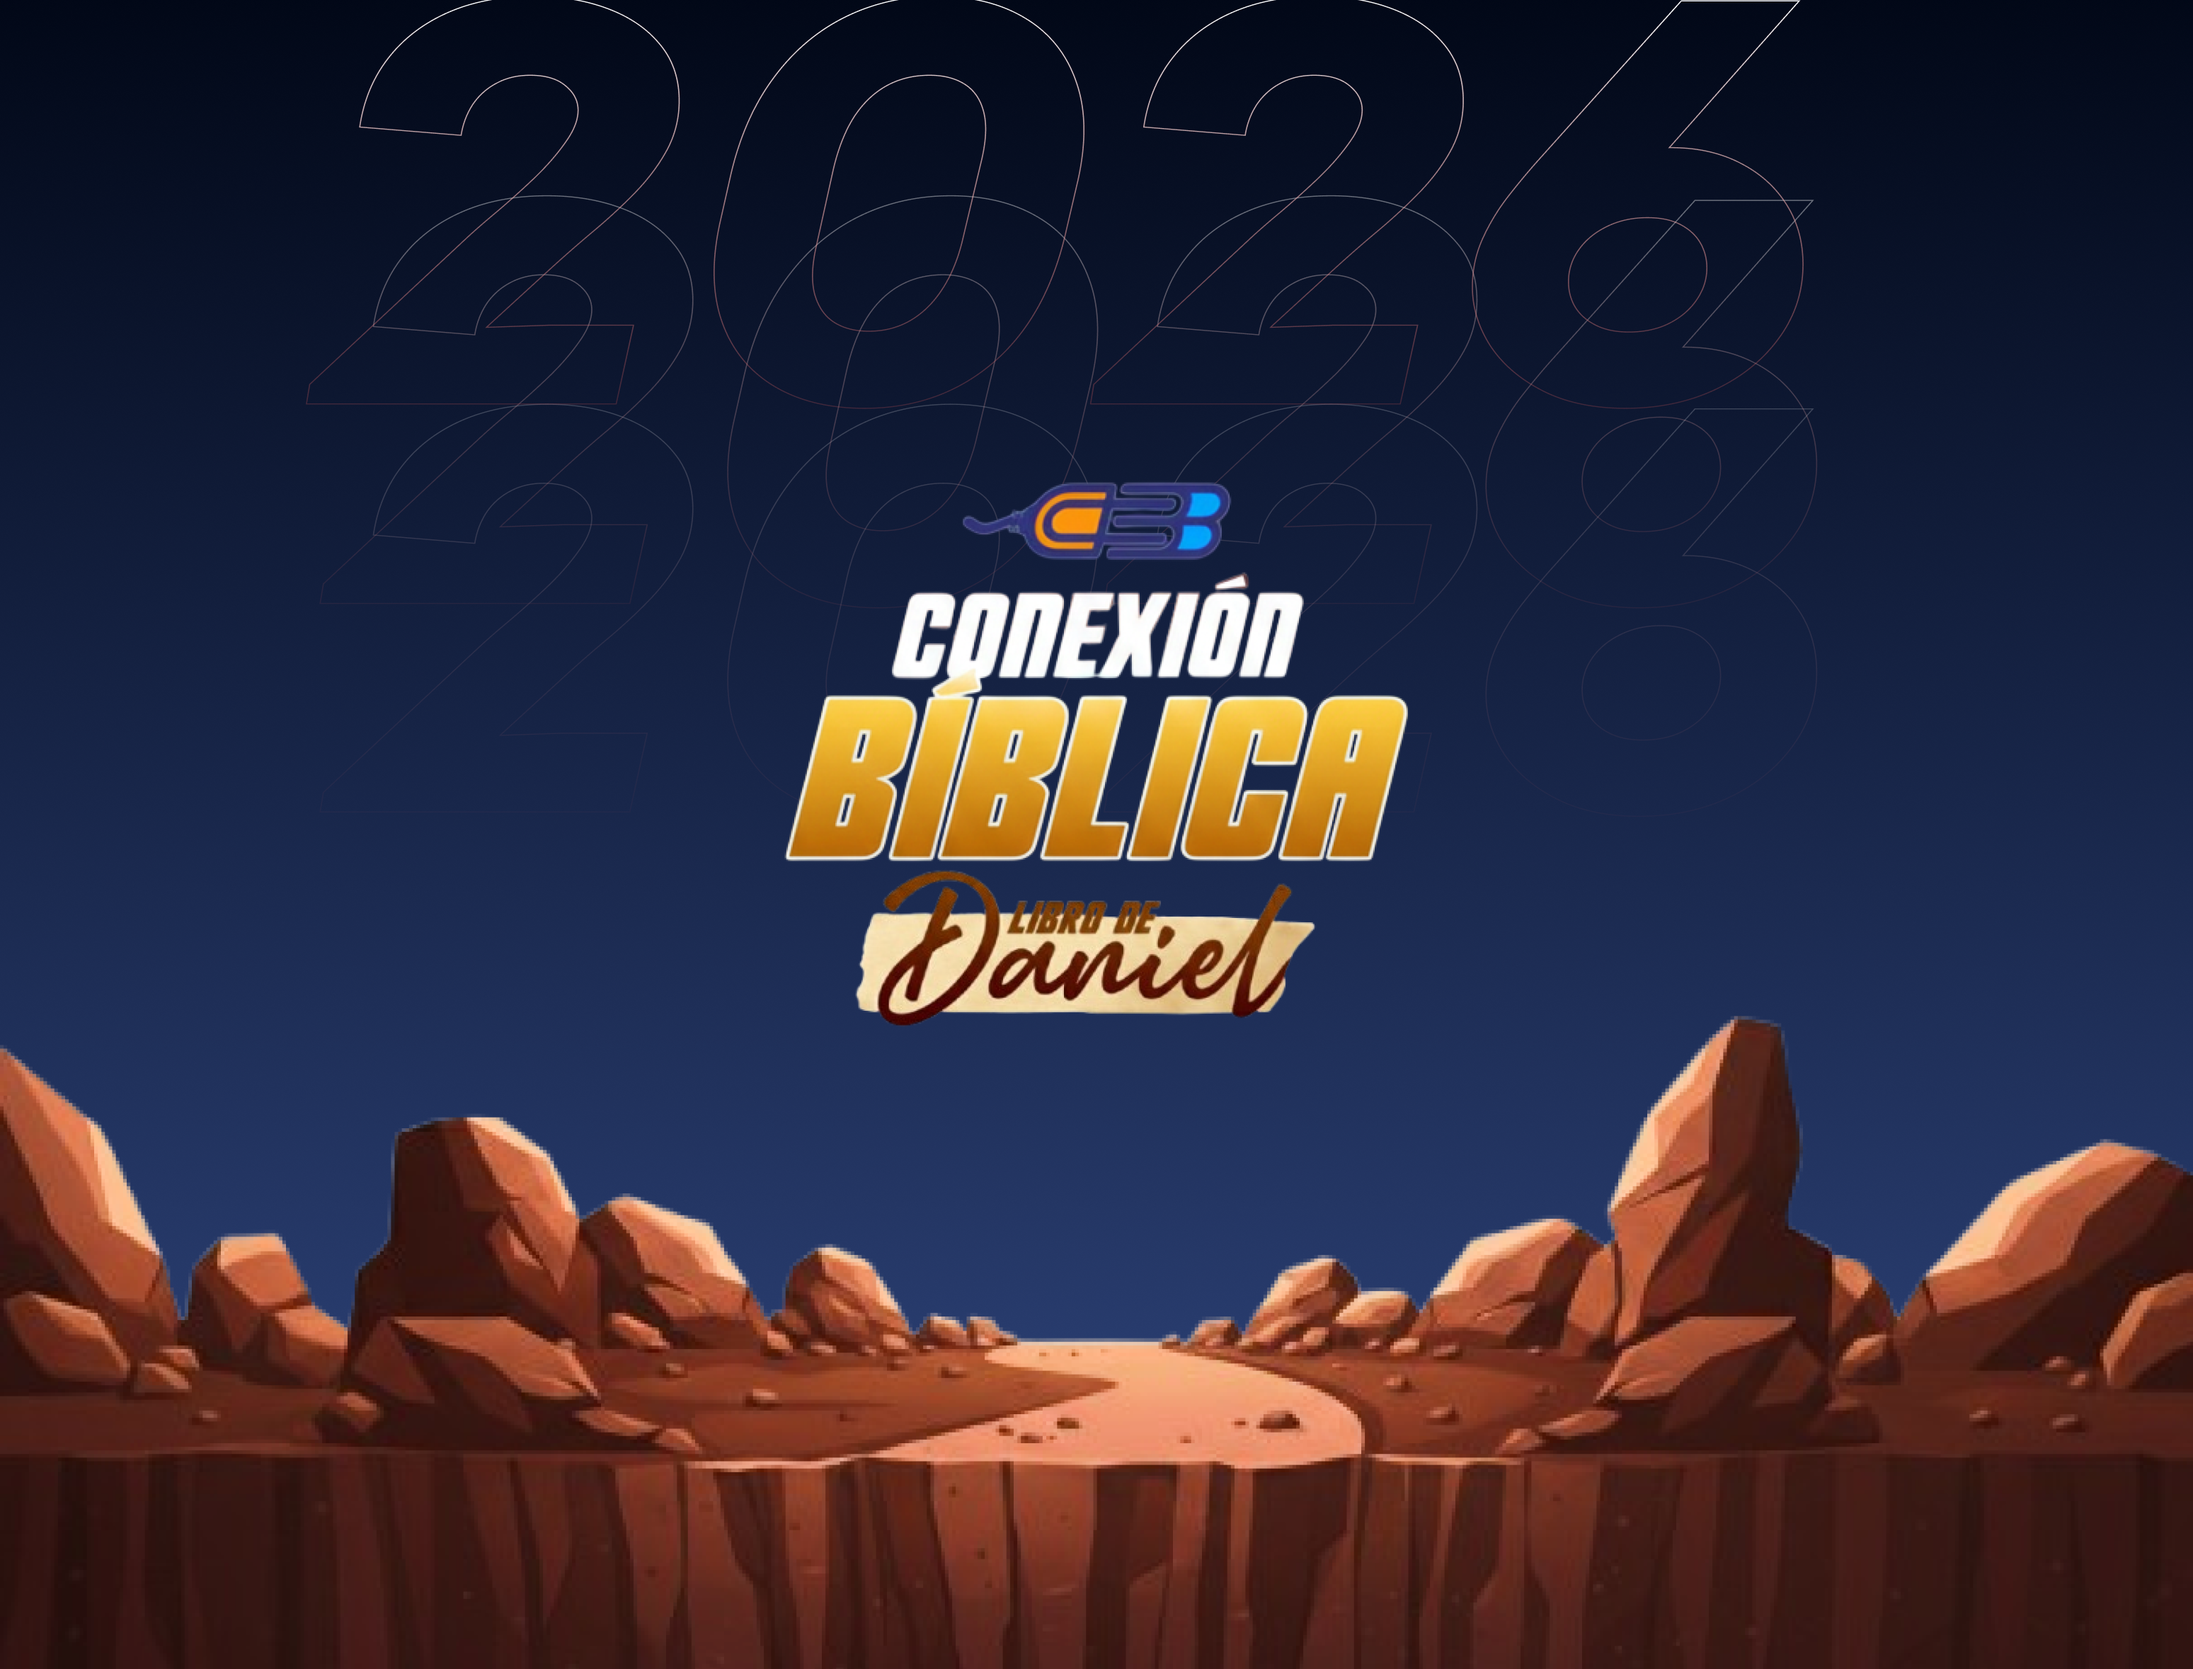
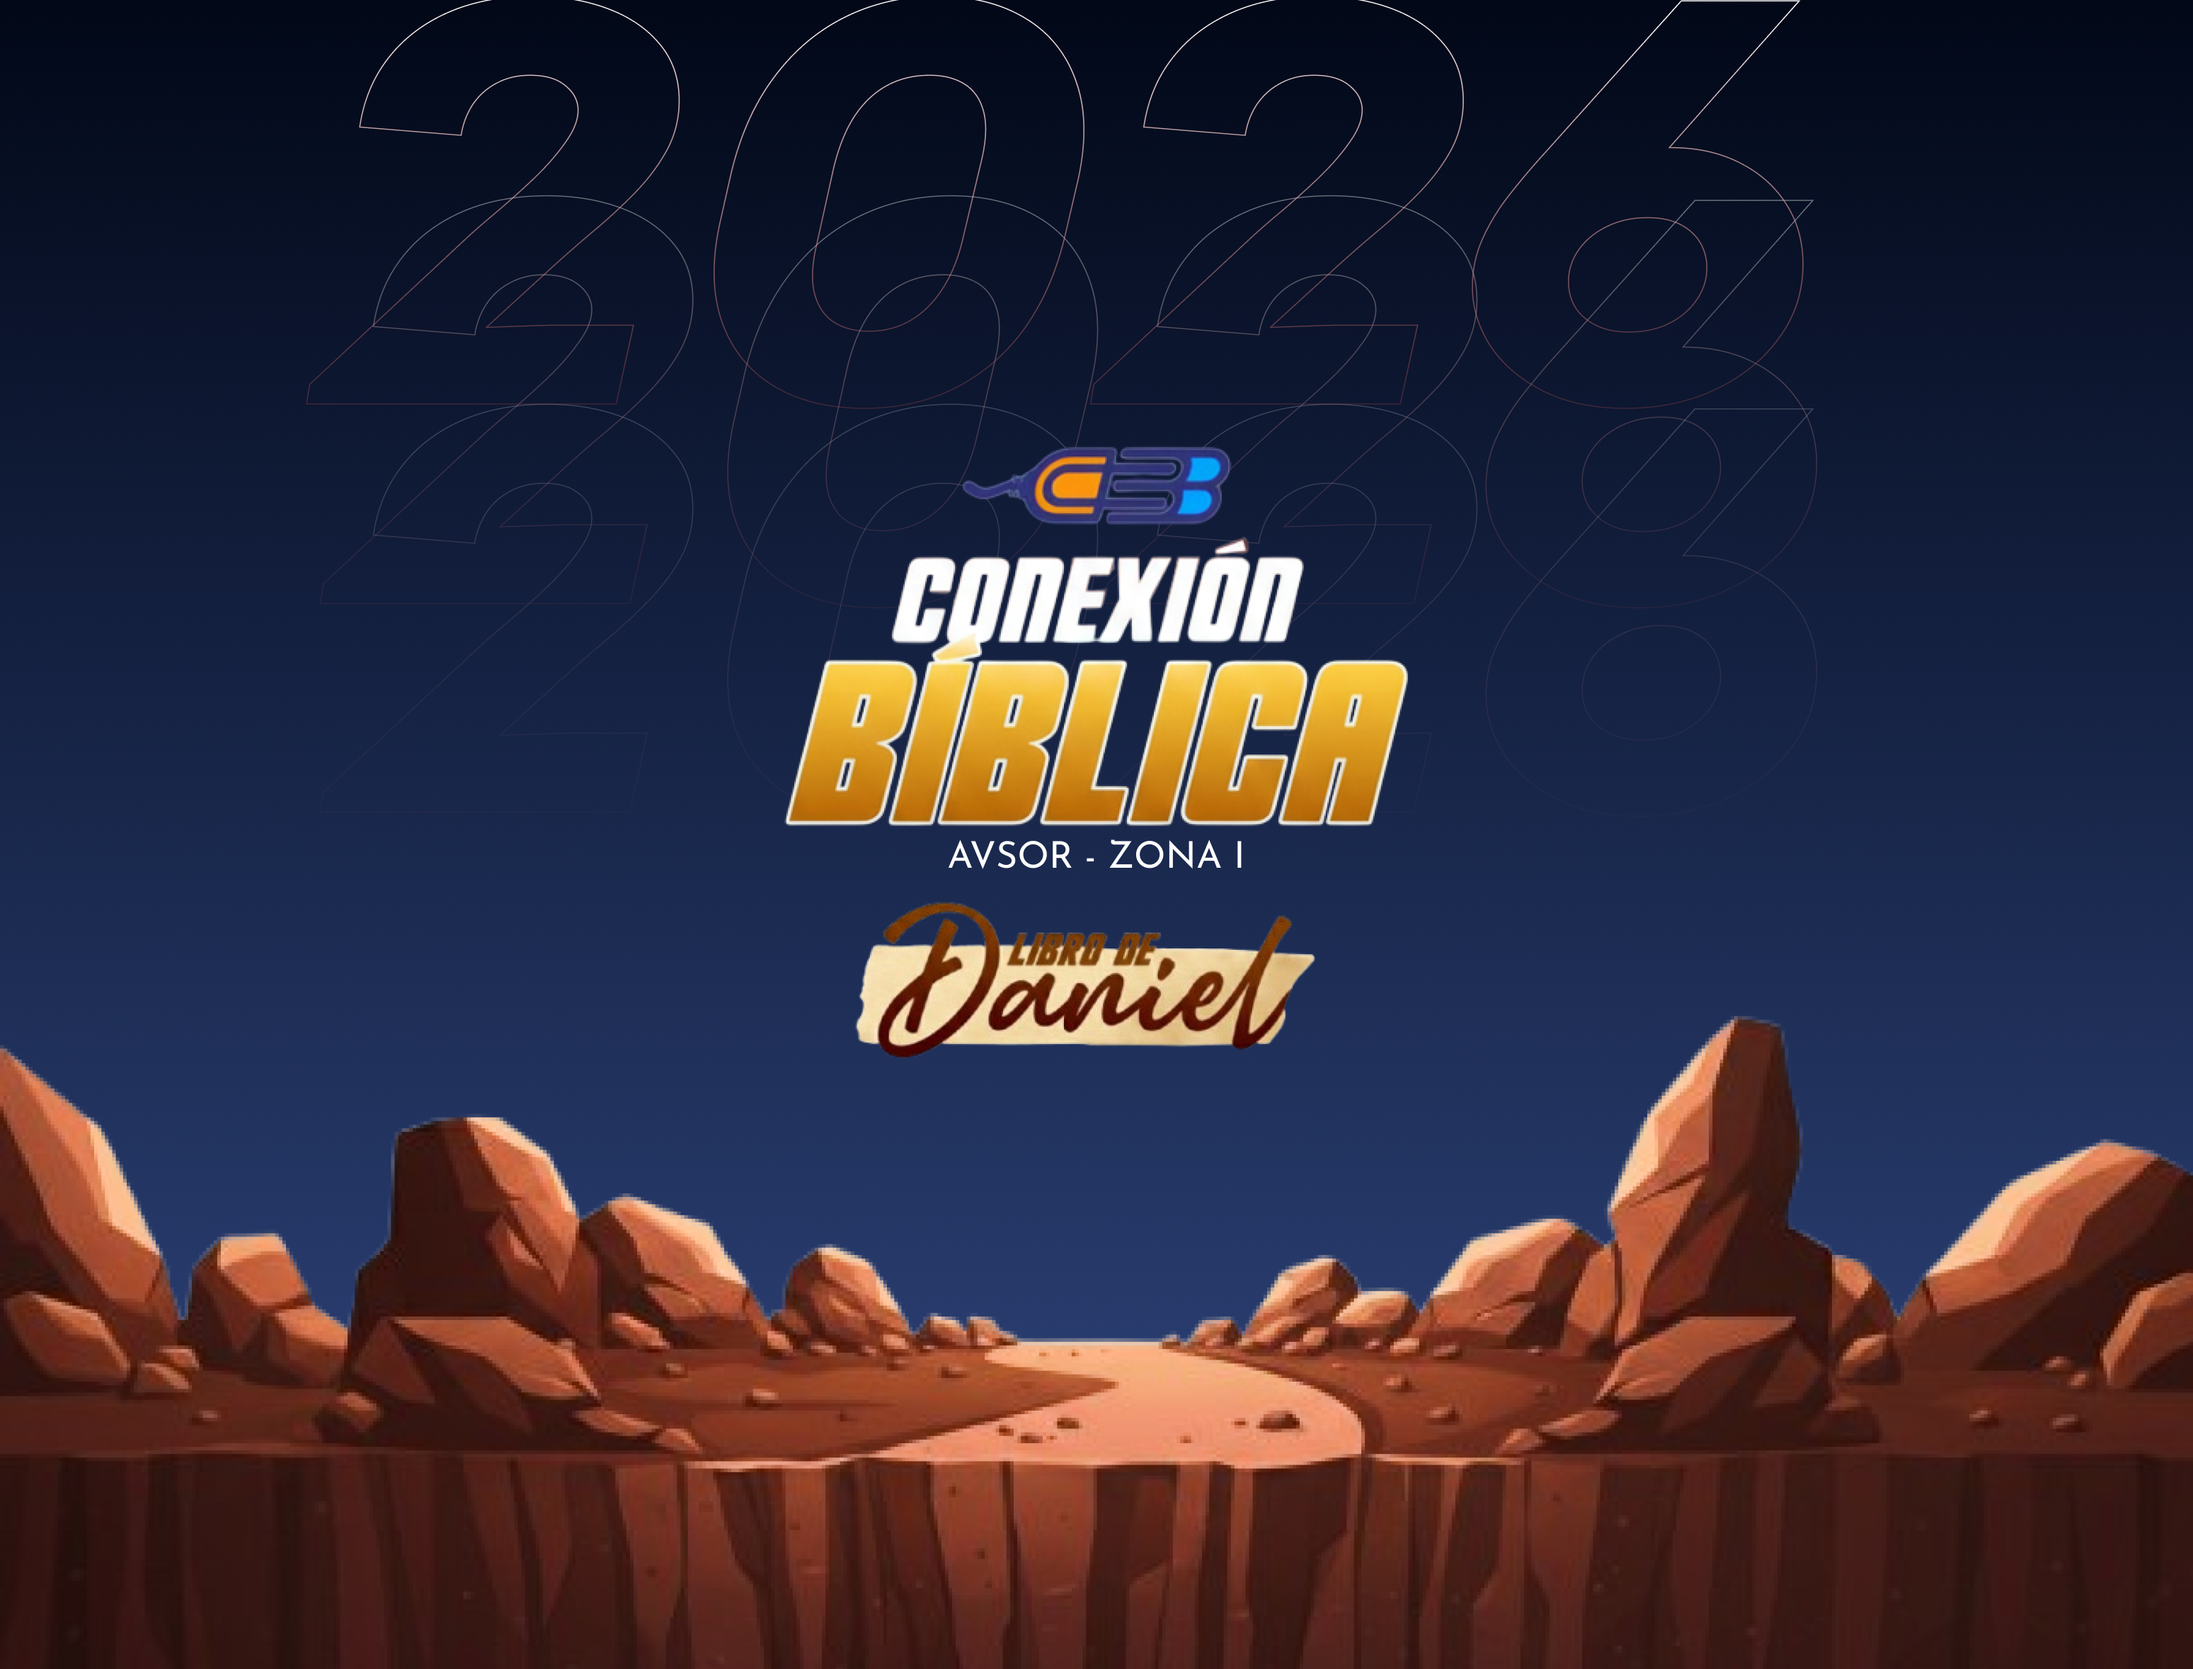
feat: new images zona-i

Changed region(s): [[0.3409, 0.2477, 0.6507, 0.6501]]

diff --git a/src/components/QuizCard.tsx b/src/components/QuizCard.tsx
@@ -23,12 +23,9 @@ const QuizCard: React.FC<QuizCardProps> = ({ animationDelay = '0ms' }) => {
           
           {/* Contenido */}
           <div className="relative z-10 h-full flex items-end justify-center px-6 pb-4">
-            <button className="bg-white border border-gray-200 rounded-lg px-6 py-3 hover:bg-gray-50 hover:scale-105 transition-all duration-300 shadow-md hover:shadow-lg">
+            <button className="bg-white border border-gray-200 rounded-full px-10 py-3 hover:bg-gray-50 hover:scale-105 transition-all duration-300 shadow-md hover:shadow-lg">
               <div className="text-center">
-                <h3 className="text-lg font-bold text-gray-800 mb-1 flex items-center justify-center gap-2">
-                  Prueba tu conocimiento
-                </h3>
-                <p className="text-gray-600 text-xs font-medium">
+                <p className="text-gray-600 text-md font-medium">
                   Próximamente...
                 </p>
               </div>
